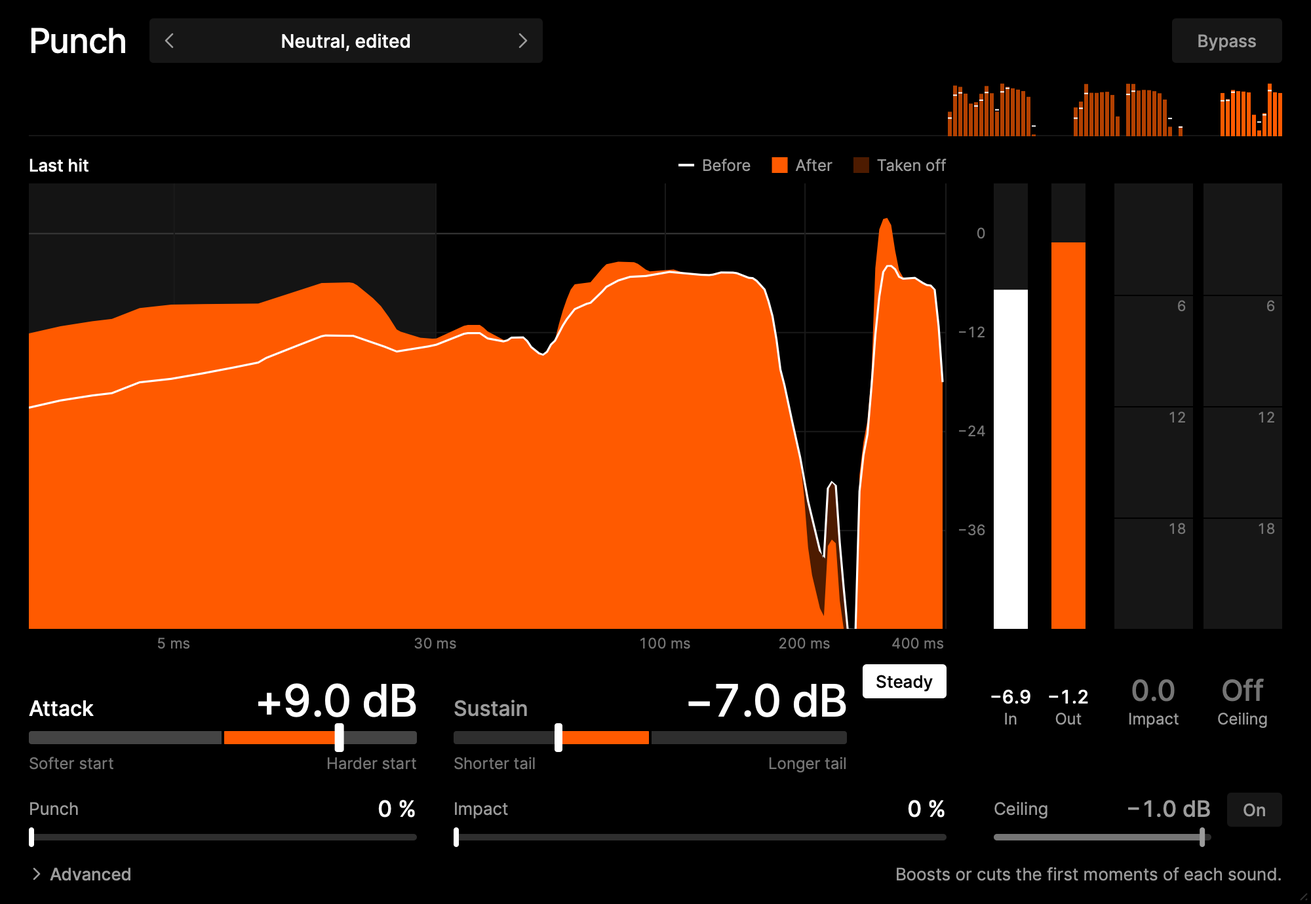
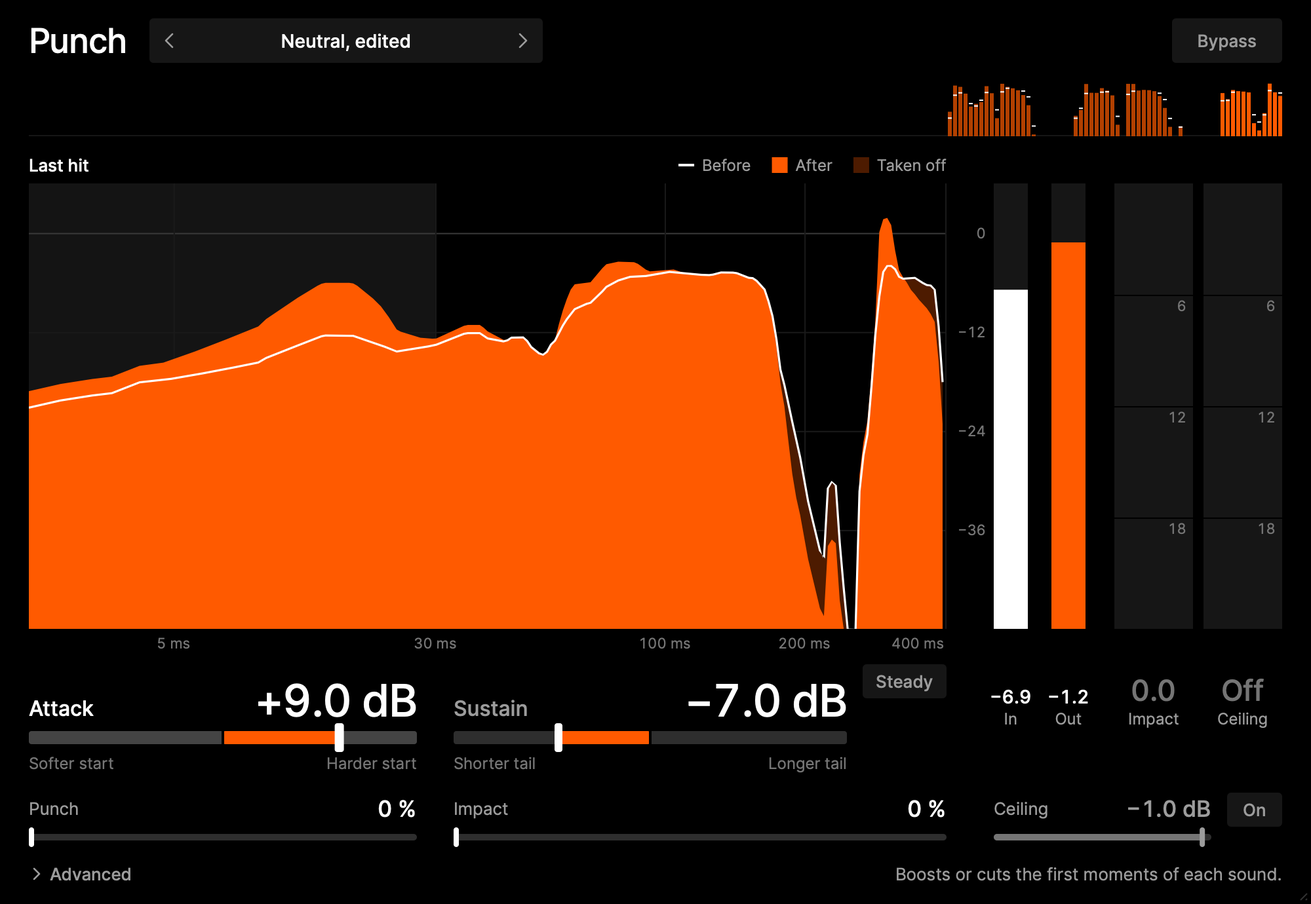
Punch 0.6.1: Steady Notes off in a new instance again, and Sustain works where there is no voice
0.6.0's default change is undone: with Steady Notes on, Sustain did nothing to drums, and the change fixed
none of the failing real vocal lines. Kept: sessions saved before Steady Notes load with it off, and the
window draws Sustain with Steady Notes on. Fixed: with Steady Notes on, where no note has been heard for
1 s (or none at all, as on drums) Sustain works as with Steady Notes off. Window pictures back to 0.5.1's.
458 pass, 0 fail.

diff --git a/punch/tests/PluginTest.cpp b/punch/tests/PluginTest.cpp
@@ -312,8 +312,8 @@ static void testSteadyNotes()
     }
     {
         PluginProcessor p;
-        // 0.6.0: a new instance has Steady Notes on (it said off by default from 0.4.0 to 0.5.1). Older sessions are tested in testSteadyDefault.
-        check (p.apvts.getRawParameterValue ("steadyNotes")->load() > 0.5f, "Steady Notes is on by default");
+        // Off by default, as from 0.4.0 to 0.5.1 (0.6.0 had it on; 0.6.1 put it back). Older sessions are tested in testSteadyDefault.
+        check (p.apvts.getRawParameterValue ("steadyNotes")->load() < 0.5f, "Steady Notes is off by default");
         bool olderOff = true;
         // 0.5.0 appended six presets for a lead vocal that have it on. The 14 that were there before keep it off, as this test has always asked.
         // Every preset is looked at again (0.5.1): the 14 older ones must have it off, the ones after them must have it on, because with it off
@@ -1746,16 +1746,16 @@ static void testHeldAfterLoudStart()
     }
 }
 
-// 0.6.0. Steady Notes is on in a new instance. Written before the change, limits fixed then:
-// a new instance has it on; a session saved before Steady Notes existed loads with it off, into a new instance and into one that had it on;
-// a session saved by 0.5.1 with it off loads off, and one saved with it on loads on; a damaged value goes back to the default;
-// and the default's own sound does not change: with every other control at its default, on and off give the same output sample for sample.
+// Steady Notes and saved state. Written for 0.6.0 (default on); 0.6.1 put the default back to off and these follow it:
+// a new instance has it off; a session saved before Steady Notes existed loads with it off, into a new instance and into one that had it on;
+// sessions saved with it off and on (0.5.1, 0.6.0) load off and on; a damaged value goes back to the default, off;
+// and with every other control at its default, Steady Notes on and off give the same output sample for sample.
 static void testSteadyDefault()
 {
     const auto steady = [] (PluginProcessor& p) { return p.apvts.getRawParameterValue ("steadyNotes")->load() > 0.5f; };
     {
         PluginProcessor p;
-        check (steady (p), "a new instance has Steady Notes on");
+        check (! steady (p), "a new instance has Steady Notes off");
     }
     // A session from before 0.4.0: every parameter of 0.3.x, no Steady Notes.
     juce::MemoryBlock before040;
@@ -1803,15 +1803,16 @@ static void testSteadyDefault()
         juce::MemoryBlock bad;
         juce::AudioProcessor::copyXmlToBinary (xml, bad);
         PluginProcessor q;
-        setParam (q, "steadyNotes", 0.0f);
+        setParam (q, "steadyNotes", 1.0f);
         q.setStateInformation (bad.getData(), (int) bad.getSize());
-        check (steady (q), "a damaged Steady Notes value goes back to the default, on");
+        check (! steady (q), "a damaged Steady Notes value goes back to the default, off");
     }
     // The default's sound: a new instance against one with Steady Notes off, every other control at its default. Real speech and the sung line.
     for (const char* name : { "speech_daniel.wav", "speech_samantha.wav", "sung line" })
     {
         const auto x = std::string (name) == "sung line" ? sungLine (48000.0) : loadSpeech (name);
         PluginProcessor a, b;
+        setParam (a, "steadyNotes", 1.0f);
         setParam (b, "steadyNotes", 0.0f);
         prepare (a, 2, 48000.0, 512);
         prepare (b, 2, 48000.0, 512);
@@ -1821,6 +1822,65 @@ static void testSteadyDefault()
             for (int i = 0; i < ya.getNumSamples(); ++i)
                 differ += ya.getSample (ch, i) != yb.getSample (ch, i) ? 1 : 0;
         check (! x.empty() && differ == 0, std::string ("the default's sound with Steady Notes on against off, ") + name + ": samples that differ", (double) differ);
+    }
+}
+
+// 0.6.1. With Steady Notes on, Sustain did nothing at all to a sound with no pitch, such as drums: no note, so no tail. Steady Notes is
+// meant to keep held notes still, not to switch Sustain off where there is no voice. Limits written before the first run: on every burst
+// of a train of noise bursts (no pitch), the change of its tail (80 to 300 ms after it starts) with Steady Notes on is within 1.0 dB of the
+// change with it off, at Sustain +9 and -9, from the very first burst; and the same after a sung note, for every burst that starts
+// 2 s or more after the note ended. With it off, the tails must move at least 3 dB (so the comparison means something).
+static void testSteadyNoPitch()
+{
+    const double sr = 48000.0, twoPi = juce::MathConstants<double>::twoPi;
+    for (const bool afterNote : { false, true })
+    {
+        const double first = afterNote ? 3.5 : 0.2, spacing = 0.45;
+        const int count = 10;
+        const int n = (int) (sr * (first + spacing * count + 0.5));
+        std::vector<float> x ((size_t) n, 0.0f);
+        std::mt19937 g (11); std::uniform_real_distribution<float> d (-1.0f, 1.0f);
+        for (int i = 0; i < n; ++i) x[(size_t) i] = 0.0003f * d (g);
+        if (afterNote) // a sung note, 0.3 to 1.3 s, then the room
+            for (int i = (int) (0.3 * sr); i < (int) (1.3 * sr); ++i)
+            {
+                const double t = i / sr - 0.3;
+                double v = 0.0;
+                for (int h = 1; h <= 6; ++h) v += std::sin (twoPi * 196.0 * h * t) / h;
+                x[(size_t) i] += (float) (0.2 * std::min (1.0, t / 0.03) * std::min (1.0, (1.3 - i / sr) / 0.004) * v);
+            }
+        std::vector<int> onsets;
+        for (int k = 0; k < count; ++k)
+        {
+            const int at = (int) ((first + spacing * k) * sr);
+            onsets.push_back (at);
+            const double amp = k % 2 == 0 ? 0.5 : 0.3; // two drums, louder and softer
+            for (int i = at; i < at + (int) (0.4 * sr) && i < n; ++i)
+            {
+                const double t = (i - at) / sr;
+                x[(size_t) i] += (float) (amp * std::min (1.0, t / 0.001) * std::exp (-t / 0.06) * d (g));
+            }
+        }
+        for (float sustain : { 9.0f, -9.0f })
+        {
+            Settings on; on.sustain = sustain; on.steadyNotes = 1.0f;
+            Settings off = on; off.steadyNotes = 0.0f;
+            int lat = 0;
+            const auto yOn = process (x, on, sr, 512, &lat), yOff = process (x, off, sr, 512, &lat);
+            double worst = 0.0, smallestOff = 100.0;
+            for (const int at : onsets)
+            {
+                const int a = at + (int) (0.08 * sr), len = (int) (0.22 * sr);
+                const double cOn = windowRmsDb (yOn, a + lat, len) - windowRmsDb (x, a, len);
+                const double cOff = windowRmsDb (yOff, a + lat, len) - windowRmsDb (x, a, len);
+                worst = std::max (worst, std::abs (cOn - cOff));
+                smallestOff = std::min (smallestOff, std::abs (cOff));
+            }
+            const std::string tag = std::string ("Steady Notes on, Sustain ") + std::to_string ((int) sustain) + ", noise bursts with no pitch"
+                                  + (afterNote ? " 2 s and more after a sung note" : "") + ": ";
+            check (smallestOff >= 3.0, tag + "with Steady Notes off the tails move at least", smallestOff, "dB");
+            check (worst <= 1.0, tag + "largest difference of a tail from Steady Notes off", worst, "dB");
+        }
     }
 }
 
@@ -2081,7 +2141,7 @@ void testWindow()
             { "punch", "Punch", 0, 100, 0 }, { "attack", "Attack", -15, 15, 0 }, { "sustain", "Sustain", -15, 15, 0 }, { "mix", "Mix", 0, 100, 100 },
             { "bypass", "Bypass", 0, 1, 0 }, { "gain", "Gain", -12, 24, 0 }, { "impact", "Impact", 0, 100, 0 }, { "ceiling", "Ceiling", -24, 0, -1 },
             { "ceilingOn", "Ceiling On", 0, 1, 0 },
-            { "steadyNotes", "Steady Notes", 0, 1, 1 }, // on in a new instance since 0.6.0 (was 0)
+            { "steadyNotes", "Steady Notes", 0, 1, 0 }, // off in a new instance (0.6.0 had it on, 0.6.1 put it back)
         };
         int missing = 0, wrong = 0;
         for (const auto& e : expected)
@@ -2397,8 +2457,7 @@ void testWindow()
         te->tick (1.0 / 30.0);
         check (at (6) > 6.0, "Attack moves its start", at (6), "dB");
         setParam (*q, "attack", 0.0f);
-        // This check was written when Steady Notes was off by default; since 0.6.0 it is on in a new instance, so it is turned off here
-        // to keep checking the same drawing. With it on, the drawing is checked after it: the tail right after the hit's body is cut, and
+        // This check is for the drawing with Steady Notes off (the default again since 0.6.1; 0.6.0 had it on, hence the explicit off). With it on, the drawing is checked after it: the tail right after the hit's body is cut, and
         // 0.3 s on the cut is over, as on a voice. (0.5.1 drew no Sustain at all with Steady Notes on.)
         setParam (*q, "steadyNotes", 0.0f);
         setParam (*q, "sustain", -12.0f);
@@ -2529,6 +2588,7 @@ int main()
     testOffStaysOff();
     testHeldAfterLoudStart();
     testSteadyDefault();
+    testSteadyNoPitch();
     testLeadPresets();
     testEnvelopeTap();
     testHitDisplayNumbers();

diff --git a/punch/src/PunchEngine.h b/punch/src/PunchEngine.h
@@ -221,6 +221,8 @@ public:
     static constexpr double tailCutEnd = 0.130;    // and nothing is made louder by it.
     static constexpr double noteFall = 1.0;        // How slowly the level a note is remembered at comes down while it is sung.
     static constexpr double sunkGrace = 0.040;     // How long a note that has sunk right down may go on before it is over.
+    static constexpr double voiceGone = 1.0;       // With no note for this long there is no voice to care for, and Sustain works as with
+    static constexpr double voiceGoneRamp = 0.5;   // Steady Notes off, coming in over this long (0.6.1: it did nothing at all to drums).
     static constexpr double sagWindow = 0.100;     // A held note's sag is measured from the highest it stood in this long (0.5.1).
     static constexpr double gateRamp = 0.005;      // How fast Sustain comes in when a note begins, so the gain never steps.
     static constexpr double restartTime = 0.002;   // How fast a sharp start pulls the tail's reference down to the new sound.
@@ -266,6 +268,8 @@ public:
         startDeadDownStep = (heldStartDb - deadZoneDb) / (float) (0.005 * sampleRate);
         cNoteFall = coef (noteFall);
         graceSamples = std::max (1, (int) std::lround (sunkGrace * sampleRate));
+        voiceGoneSamples = std::max (1, (int) std::lround (voiceGone * sampleRate));
+        voiceGoneRampSamples = std::max (1, (int) std::lround (voiceGoneRamp * sampleRate));
         cRestart = coef (restartTime);
         cBrightRise = coef (brightRise);
         cBrightFall = coef (brightFall);
@@ -335,7 +339,7 @@ public:
         float tailAmount = clamp01 ((tailDb - deadZoneDb) / tailRangeDb);
         if (steadyNotes)
         {
-            tailAmount = steadyTailAmount (startDb, sample, sustainDb);
+            tailAmount = steadyTailAmount (startDb, sample, sustainDb, tailAmount);
             startAmount = steadyStartAmount (startDb);
         }
 
@@ -444,7 +448,7 @@ private:
     // 4. A sound with no note before it gets nothing: a sharp start pulls the reference down to it, so the next note is read on its own.
     // 5. A bright sound (an S) is spared: its sample to sample step is nearly as large as the sample itself.
     // Everything is a ratio or a time, so level still does not matter.
-    float steadyTailAmount (float startDb, float sample, float sustainDb)
+    float steadyTailAmount (float startDb, float sample, float sustainDb, float plainAmount)
     {
         const float clean = sample > -1.0e6f && sample < 1.0e6f ? sample : 0.0f; // Also catches NaN.
         if (! steadyWasOn)
@@ -518,7 +522,14 @@ private:
         const float bright = clamp01 ((stepEnv / (sizeEnv + 1.0e-9f) - brightLow) / (brightHigh - brightLow));
 
         // Only a boost spares a bright sound: a cut that shortens the end of a word shortens its S with it and makes nothing louder.
-        return clamp01 ((tailDb - heldDepthDb) / tailRangeDb) * tailGate * (sustainDb > 0.0f ? 1.0f - bright : 1.0f);
+        const float voiced = clamp01 ((tailDb - heldDepthDb) / tailRangeDb) * tailGate * (sustainDb > 0.0f ? 1.0f - bright : 1.0f);
+        // 6. No voice: with no note for voiceGone (or none since Steady Notes came on, as on a drum track) Sustain is what it is with
+        //    Steady Notes off, the plain reading of the level, faded in over voiceGoneRamp. Breaths and mouth sounds between phrases come
+        //    well within voiceGone of a note and are still left alone.
+        if (levelsOnly || sinceNote < voiceGoneSamples)
+            return voiced;
+        const float plain = sinceNote >= farFromANote ? 1.0f : std::min (1.0f, (float) (sinceNote - voiceGoneSamples) / (float) voiceGoneRampSamples);
+        return voiced + plain * (plainAmount - voiced);
     }
 
     // Attack for a voice (Steady Notes). Inside a held vowel the peaks jump by a few dB now and then while the level stays where it is
@@ -643,7 +654,7 @@ private:
     float stepEnv = 0, sizeEnv = 0, lastSample = 0, tailGate = 0, gateStep = 1, levelPower = 0, crestDb = 0;
     int notedFor = 0, noteSamples = 1, sinceNote = farFromANote, boostFull = 0, boostEnd = 1, cutFull = 0, cutEnd = 1;
     float noteLevel = 0, cNoteFall = 1, startDeadDb = 0.25f, startDeadUpStep = 0, startDeadDownStep = 0;
-    int sunkFor = 0, graceSamples = 1;
+    int sunkFor = 0, graceSamples = 1, voiceGoneSamples = 1, voiceGoneRampSamples = 1;
     float overDb = 0, makeupGuard = 1, matchedPunch = 0, cMakeupHeld = 1, givenDb = 0;
     int quietFor = 0, pauseHoldSamples = 1, pauseFadeSamples = 1;
     bool steadyWasOn = false, noteOn = false, matched = false, levelsOnly = false;

diff --git a/punch/src/PluginProcessor.cpp b/punch/src/PluginProcessor.cpp
@@ -62,8 +62,9 @@ juce::AudioProcessorValueTreeState::ParameterLayout PluginProcessor::makeLayout(
                                                        AudioParameterFloatAttributes().withLabel ("dBFS")));
     layout.add (std::make_unique<AudioParameterBool> (ParameterID { "ceilingOn", 1 }, "Ceiling On", false));
     // Added in 0.4.0. Off leaves Sustain and Punch exactly as they were, so every older session and preset sounds the same.
-    // On in a new instance since 0.6.0. A session saved before 0.4.0 has no value for it and loads with it off (setStateInformation).
-    layout.add (std::make_unique<AudioParameterBool> (ParameterID { "steadyNotes", 1 }, "Steady Notes", true));
+    // Off in a new instance. (0.6.0 had it on; 0.6.1 put it back, as with it on Sustain did nothing to drums.) A session saved before 0.4.0
+    // has no value for it and loads with it off (setStateInformation).
+    layout.add (std::make_unique<AudioParameterBool> (ParameterID { "steadyNotes", 1 }, "Steady Notes", false));
     return layout;
 }
 
@@ -305,8 +306,8 @@ void PluginProcessor::setStateInformation (const void* data, int size)
             xml->removeAttribute (windowWidthAttribute);
             xml->removeAttribute (windowHeightAttribute);
             xml->removeAttribute (advancedOpenAttribute);
-            // Steady Notes is on in a new instance since 0.6.0. A session saved before it existed (0.3.x and older) has no value for it,
-            // and must sound as it did when it was saved: with it off.
+            // A session saved before Steady Notes existed (0.3.x and older) has no value for it, and must sound as it did when it was
+            // saved: with it off, whatever the default. (Added in 0.6.0, when the default was on; kept since.)
             bool hasSteady = false;
             for (auto* e : xml->getChildWithTagNameIterator ("PARAM"))
                 hasSteady = hasSteady || e->getStringAttribute ("id") == "steadyNotes";

diff --git a/punch/README.md b/punch/README.md
@@ -11,8 +11,8 @@ In your host: Audio Units > Luke Garito > Punch. AU code `aufx SPun Luke`. Mono 
 - **Punch** (0 to 100 %, default 0): amount of fast compression, level matched. The threshold follows the loudest recent level, so it does the same job on a quiet track as on a loud one. Up to 36 dB below that peak at 10 to 1 at the top of the control.
 - **Attack** (-15 to +15 dB, default 0): boosts or cuts the start of a sound. Full effect for about the first 5 ms, gone by about 30 ms.
 - **Sustain** (-15 to +15 dB, default 0): boosts or cuts the tail, as a sound dies away. Starts after about 15 ms. A steady sound has no tail, so it is left alone.
-- **Steady Notes** (on in a new instance since 0.6.0; off before): Sustain and Punch for a voice. With Punch, Attack and Sustain at 0 it changes nothing at all, so a new instance still passes the sound through untouched. A session saved before Steady Notes existed (0.3.x) loads with it off, and a session saved since keeps the value it was saved with. The 14 older presets turn it off. For drums or anything else without a pitch, turn it off: with it on, Sustain does nothing to a sound that has no pitch. Off, Sustain and Punch are exactly what they were. On:
-  - **Sustain follows the note.** A note is a sound with a pitch. While it has its pitch it may sag by 6 dB before Sustain acts, measured from the highest it stood in the last 100 ms, so a held vowel stays still, also one that starts loud and settles lower, and only a note that is really dying away is shaped. The tail is what comes right after the pitch stops: a boost stays on it for about 70 ms and is gone by about 105 ms, a cut stays for about 110 ms and is gone by 130 ms. A breath, a mouth sound, the room or the start of the next phrase after that is not the word's tail and is left alone. A boost also leaves bright sounds such as an S alone. A sound with no note before it gets nothing from Sustain.
+- **Steady Notes** (default off): Sustain and Punch for a voice. Off, both are exactly what they were. With Punch, Attack and Sustain at 0 it changes nothing at all. A session saved before Steady Notes existed (0.3.x) loads with it off, and a session saved since keeps the value it was saved with. (0.6.0 turned it on in a new instance; 0.6.1 put that back, see the CHANGELOG.) On:
+  - **Sustain follows the note.** A note is a sound with a pitch. While it has its pitch it may sag by 6 dB before Sustain acts, measured from the highest it stood in the last 100 ms, so a held vowel stays still, also one that starts loud and settles lower, and only a note that is really dying away is shaped. The tail is what comes right after the pitch stops: a boost stays on it for about 70 ms and is gone by about 105 ms, a cut stays for about 110 ms and is gone by 130 ms. A breath, a mouth sound, the room or the start of the next phrase after that is not the word's tail and is left alone. A boost also leaves bright sounds such as an S alone. A sound right after a voice with no note of its own gets nothing from Sustain. Where there is no voice (no note for a second, or none at all, as on drums) Sustain works as with Steady Notes off.
   - **Punch reads a held note by its level, not by every peak**, and its level match is learned on the voice and then held, so a held note keeps one gain from the first word of a phrase on. The match is given to a sound by how near it is to the level Punch works at, so the room and a far-off breath are not lifted with the voice.
   - **Attack leaves a held note alone.** Inside a note that is sounding, the peaks jump by a few dB now and then while the level stays put. A start there has to rise 4 dB before Attack acts. The first sound after a pause is shaped exactly as before.
   - With every other control at its default it changes nothing at all.
@@ -123,7 +123,7 @@ On the working set, 0.5.1, with Steady Notes on (limit in brackets):
 - All six lead presets meet every limit on all 11 takes.
 - 0.5.1 fixed the one Steady Notes miss of the blind set: on take 15, Sustain +9 gave held vowels +0.25 dB on average (limit 0.2). A held note that starts loud and settles lower got a short burst of Sustain when it dipped a little: on working take 04 at 149.86 s it was 7.6 dB for 30 ms. Now 0.00. It also fixed Punch 50 with Steady Notes settling 1.75 dB low on the first session's take 01 (limit 1.0): now 0.20 dB.
 
-These are also what a new instance gives since 0.6.0, as it has Steady Notes on. With Steady Notes off every one of these numbers is what it was in 0.3.1 and 0.4.0: Sustain moves held vowels by 7.2 to 9.0 dB, and so on. That is how Sustain has always sounded, and the 14 older presets still sound that way.
+With Steady Notes off every one of these numbers is what it was in 0.3.1 and 0.4.0: Sustain moves held vowels by 7.2 to 9.0 dB, and so on. That is how Sustain has always sounded, and the 14 older presets still sound that way.
 
 ## Signal flow
 
@@ -197,7 +197,7 @@ Added in 0.3.0, with limits written before the first run:
 - The drawn shape on a burst: Attack +9 draws +9.0 at the start and 0.0 in the tail. Sustain -9 draws -9.0 in the tail and 0.0 at the start.
 - Hits: 5 bursts make 5 hits at -30 dBFS, a steady tone makes 1, silence and a -60 dBFS tone make none, real speech makes about 2 a second.
 - 60 windows opened, painted and closed, 30 of them with audio running on another thread. One opens and paints before the host has prepared the plug-in. Frames and paints write no parameter and no automation. Ten seconds of silence from the host moves nothing.
-- Audio CPU through `_shared/bin/AuBench`: 0.6 to 0.7% default before and after. With Steady Notes on, the pitch sense adds to it: over Luke's takes the worst block of a lead preset took 2.2 to 3.3% of one core, against 0.4 to 1.1% at the default up to 0.5.1. Since 0.6.0 a new instance has Steady Notes on, so the pitch sense runs at the default too: worst block 1.3 to 2.1% on the working set. Window CPU: see `docs/window-cpu.md`, measured with `build/RenderWindow_artefacts/Release/RenderWindow --live`.
+- Audio CPU through `_shared/bin/AuBench`: 0.6 to 0.7% default before and after. With Steady Notes on, the pitch sense adds to it: over Luke's takes the worst block of a lead preset took 2.2 to 3.3% of one core, against 0.4 to 1.1% at the default up to 0.5.1. Window CPU: see `docs/window-cpu.md`, measured with `build/RenderWindow_artefacts/Release/RenderWindow --live`.
 - The pictures in `docs/window/` come from `RenderWindow`, with real speech going through the real processor. None of this has been opened in a real host window yet.
 
 Steady Notes on a made-up sung line (0.5.0): a held note at 196 Hz with vibrato and a 3 dB swing, the breathy sound left after it, a breath a quarter of a second later, a mouth sound, a quieter second note that drops 5 dB half way (two syllables on one breath), a breath straight after it, and a room that hisses and hums at 120 Hz under everything.
@@ -210,18 +210,18 @@ Steady Notes on a made-up sung line (0.5.0): a held note at 196 Hz with vibrato 
 - A held note that starts loud, settles 10 dB lower and keeps a 3 dB swing (0.5.1): at Sustain +9, -9 and +6, and +9 at 44.1 and 96 kHz, the settled note moves at most 0.02 dB in any 10 ms and 0.00 dB on the whole (limits 1.0 and 0.2). 0.5.0 moved it by up to 5.8 dB.
 - Attack +9 and -9 on a held note whose peaks jump: the peaks jump 2.8 dB while the level stays put. Around the jump the level moves 0.0 dB with Steady Notes, 2.5 and 2.4 dB without. The first 3 ms of the note still move 9.0 dB.
 - Steady Notes off: the detector gives 0.4.0's gain sample for sample at all 14 older presets and at both extremes, on speech and bursts (a copy of 0.4.0's detector is kept in `tests/PunchEngine040.h` for this).
-- Steady Notes on in a new instance (0.6.0): with every other control at its default, on and off give the same output sample for sample on two real voices and the sung line (0 samples differ). A session saved before 0.4.0 loads with it off, into a new instance and into one that had it on; sessions saved by 0.5.1 with it off and on load off and on; a damaged value goes back to the default. State saved by 0.1.0 with the Vocal Forward values still sounds as it did (0.000 dB).
+- Steady Notes and saved state (0.6.0, kept in 0.6.1 with the default back to off): with every other control at its default, Steady Notes on and off give the same output sample for sample on two real voices and the sung line (0 samples differ). A session saved before 0.4.0 loads with it off, into a new instance and into one that had it on; sessions saved with it off and on load off and on; a damaged value goes back to the default. State saved by 0.1.0 with the Vocal Forward values still sounds as it did (0.000 dB).
+- Steady Notes on, noise bursts with no pitch (0.6.1), Sustain +9 and -9: every tail moves as with Steady Notes off, within 0.000 dB (limit 1.0), from the first burst, and after a sung note for every burst 2 s and more after it. 0.6.0 and earlier left them untouched (9.0 dB off).
 - All 20 preset names fit in the preset box with ", edited" after them: the widest is 198 points, the room is 240.
 
 Limits to know about:
 
 - Sustain follows how fast a sound dies away. +9 dB gives 9.0 dB on a 30 ms decay, 7.5 on 300 ms and 2.6 on 1 second. Slower decays read as steady sounds.
 - Without Steady Notes, Sustain moves a held sung note: one swinging 3 dB at 5 Hz moves by 7.3 dB at Sustain +9. With it, 0.0 dB, and what follows the note still gets its gain.
-- Steady Notes hears a note by its pitch, so it is for a voice or anything else with a pitch. A drum has none: with Steady Notes on, Sustain does nothing to it. A room's hum has a pitch too, and is kept from counting as a note by its level: a note can only start within 6 dB of where the level is, and is over once it has sunk 24 dB under its own level.
+- Steady Notes hears a note by its pitch. Where there is no voice, Sustain is what it is with Steady Notes off: on a track with no pitch at all, such as drums, from the start, and after a voice once no note has been heard for 1 s (coming in fully by 1.5 s). Up to 0.6.0 it did nothing at all to a sound with no pitch. Before the first note of a vocal take there has been no note either, so a breath or a mouth sound there gets Sustain as with Steady Notes off (on the working set, Sustain +6: breaths at most 1.3 dB, mouth sounds at most 0.8 dB against the voice, limit 3). A room's hum has a pitch too, and is kept from counting as a note by its level: a note can only start within 6 dB of where the level is, and is over once it has sunk 24 dB under its own level.
 - With Steady Notes on, the very first phrase after the plug-in starts is where Punch's level match is learned, at the old speed. From the second phrase on a held note keeps one gain.
 - With Steady Notes on, a boost from Sustain lets go about 105 ms after the pitch stops and a cut about 130 ms after. A long reverb tail after a note is shaped for that long and no longer.
 - The picture of the last hit is drawn from levels, and a level has no pitch. With Steady Notes on, a preview treats the hit's body as the note until it has sagged 6 dB, and draws the tail after that the way a voice gets it (a cut for about 130 ms, a boost for about 105 ms). It cannot show a breath or an S being spared. Up to 0.5.1 it drew no Sustain at all with Steady Notes on.
-- A new instance shows "Neutral, edited" in the preset box: Neutral has Steady Notes off and a new instance has it on. The sound is the same as Neutral's until Punch, Attack or Sustain is moved.
 - Level match needs a moment. At Punch 50, the first hit after a long silence is 2.7 dB quieter than the input, the second 0.6 dB, the fifth 0.0 dB.
 - At high Punch, the level match lifts quiet tails a lot, including any noise in them.
 - Boosting Attack raises peaks. With Ceiling On off there is no limit on the output, so watch the level after it.

diff --git a/punch/CHANGELOG.md b/punch/CHANGELOG.md
@@ -1,5 +1,15 @@
 # Changelog
 
+## 0.6.1, 2026-11-12
+
+0.6.0's default change is undone: Steady Notes is off in a new instance again, as in 0.5.1. With it on, Sustain did nothing to drums or anything else without a pitch, so every new instance lost Sustain there, and the change fixed none of the real vocal check's failing lines, because the check turns Steady Notes off itself for those. A new instance also showed "Neutral, edited". The lead's call, 2026-11-12.
+
+- Kept from 0.6.0: a session saved before Steady Notes existed loads with it off; a session saved with it on (0.6.0 or earlier) loads with it on, and one saved with it off loads off. The window draws Sustain's tail with Steady Notes on.
+- Fixed: with Steady Notes on, Sustain did nothing to a sound with no pitch. Steady Notes is there to keep held notes still, not to switch Sustain off where there is no voice. Now, where there is no voice, Sustain is what it is with Steady Notes off: on a track with no pitch at all, such as drums, from the start, and after a voice once no note has been heard for 1 s, coming in fully by 1.5 s. Breaths and mouth sounds between phrases come well within that and are still left alone. On a train of noise bursts at Sustain +9 and -9 every tail now moves exactly as with Steady Notes off (0.000 dB apart; 0.6.0 left them 9.0 dB apart). Before the first note of a vocal take there has been no note either, so breaths and mouth sounds there get Sustain as with Steady Notes off: on the working set at Sustain +6, breaths at most 1.3 dB and mouth sounds at most 0.8 dB against the voice (limit 3).
+- With every other control at its default, the output is the same as 0.5.1's and 0.6.0's sample for sample.
+
+Tests: 458 pass, 0 fail (0.6.0 had 450). New: noise bursts with no pitch, from the start and 2 s after a sung note, at Sustain +9 and -9. The checks that 0.6.0 turned to "on by default" are back to off.
+
 ## 0.6.0, 2026-11-12
 
 Steady Notes is on in a new instance. Luke left this call to the lead on 2026-11-11.
